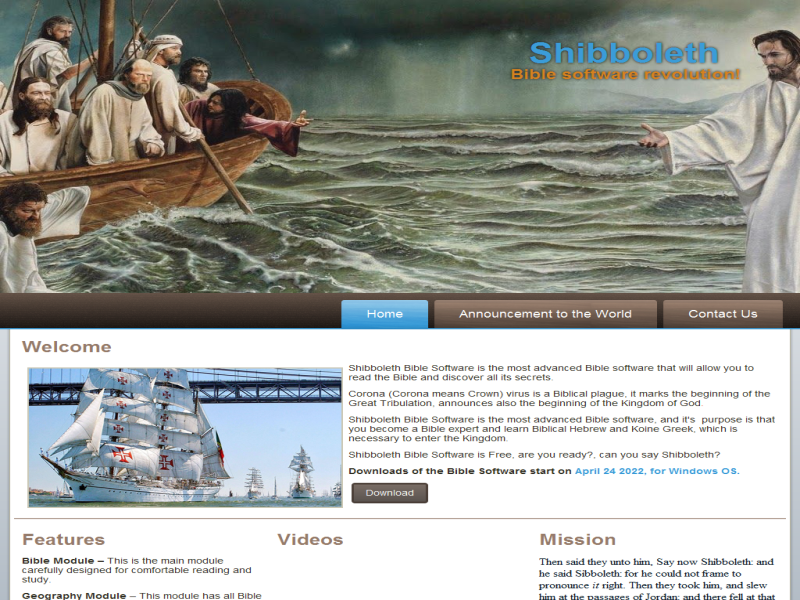
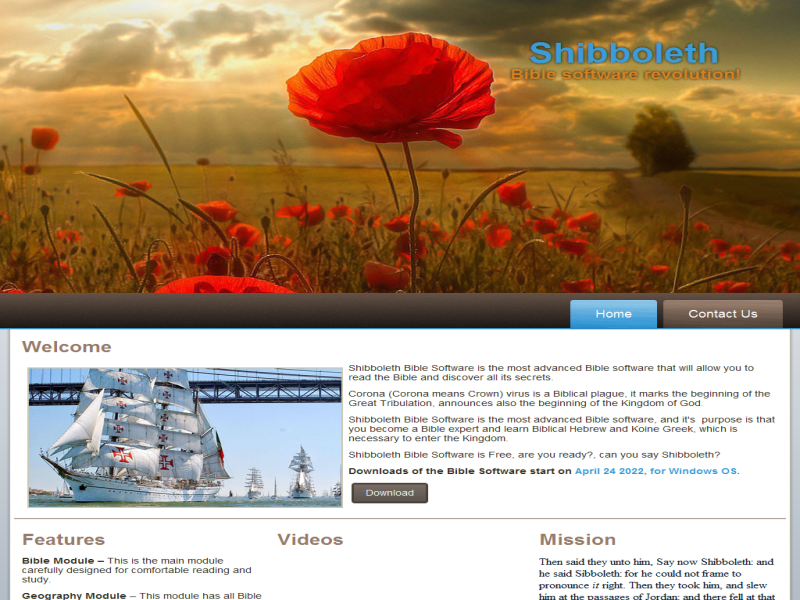
5

diff --git a/contact.html b/contact.html
@@ -76,7 +76,7 @@ StatCounter"></a></div></noscript>
 </header>
 <nav class="art-nav">
     <div class="art-nav-inner">
-    <ul class="art-hmenu"><li><a href="software.html" class="">Home</a></li><li><a href="announcement-to-the-world.html" class="">Announcement to the World</a></li><li><a href="contact.html" class="active">Contact Us</a></li></ul> 
+    <ul class="art-hmenu"><li><a href="software.html" class="">Home</a></li><li><a href="contact.html" class="active">Contact Us</a></li></ul> 
         </div>
     </nav>
 <div class="art-sheet clearfix">

diff --git a/index.html b/index.html
@@ -339,7 +339,7 @@ height: 10px;
 </header>
 <nav class="art-nav">
     <div class="art-nav-inner">
-    <ul class="art-hmenu"><li><a href="software.html" class="active">Home</a></li><li><a href="announcement-to-the-world.html">Announcement to the World</a></li><li><a href="contact.html">Contact Us</a></li></ul> 
+    <ul class="art-hmenu"><li><a href="software.html" class="active">Home</a></li><li><a href="contact.html">Contact Us</a></li></ul> 
         </div>
     </nav>
 <div class="art-sheet clearfix">

diff --git a/software.html b/software.html
@@ -339,7 +339,7 @@ height: 10px;
 </header>
 <nav class="art-nav">
     <div class="art-nav-inner">
-    <ul class="art-hmenu"><li><a href="software.html" class="active">Home</a></li><li><a href="announcement-to-the-world.html">Announcement to the World</a></li><li><a href="contact.html">Contact Us</a></li></ul> 
+    <ul class="art-hmenu"><li><a href="software.html" class="active">Home</a></li><li><a href="contact.html">Contact Us</a></li></ul> 
         </div>
     </nav>
 <div class="art-sheet clearfix">
